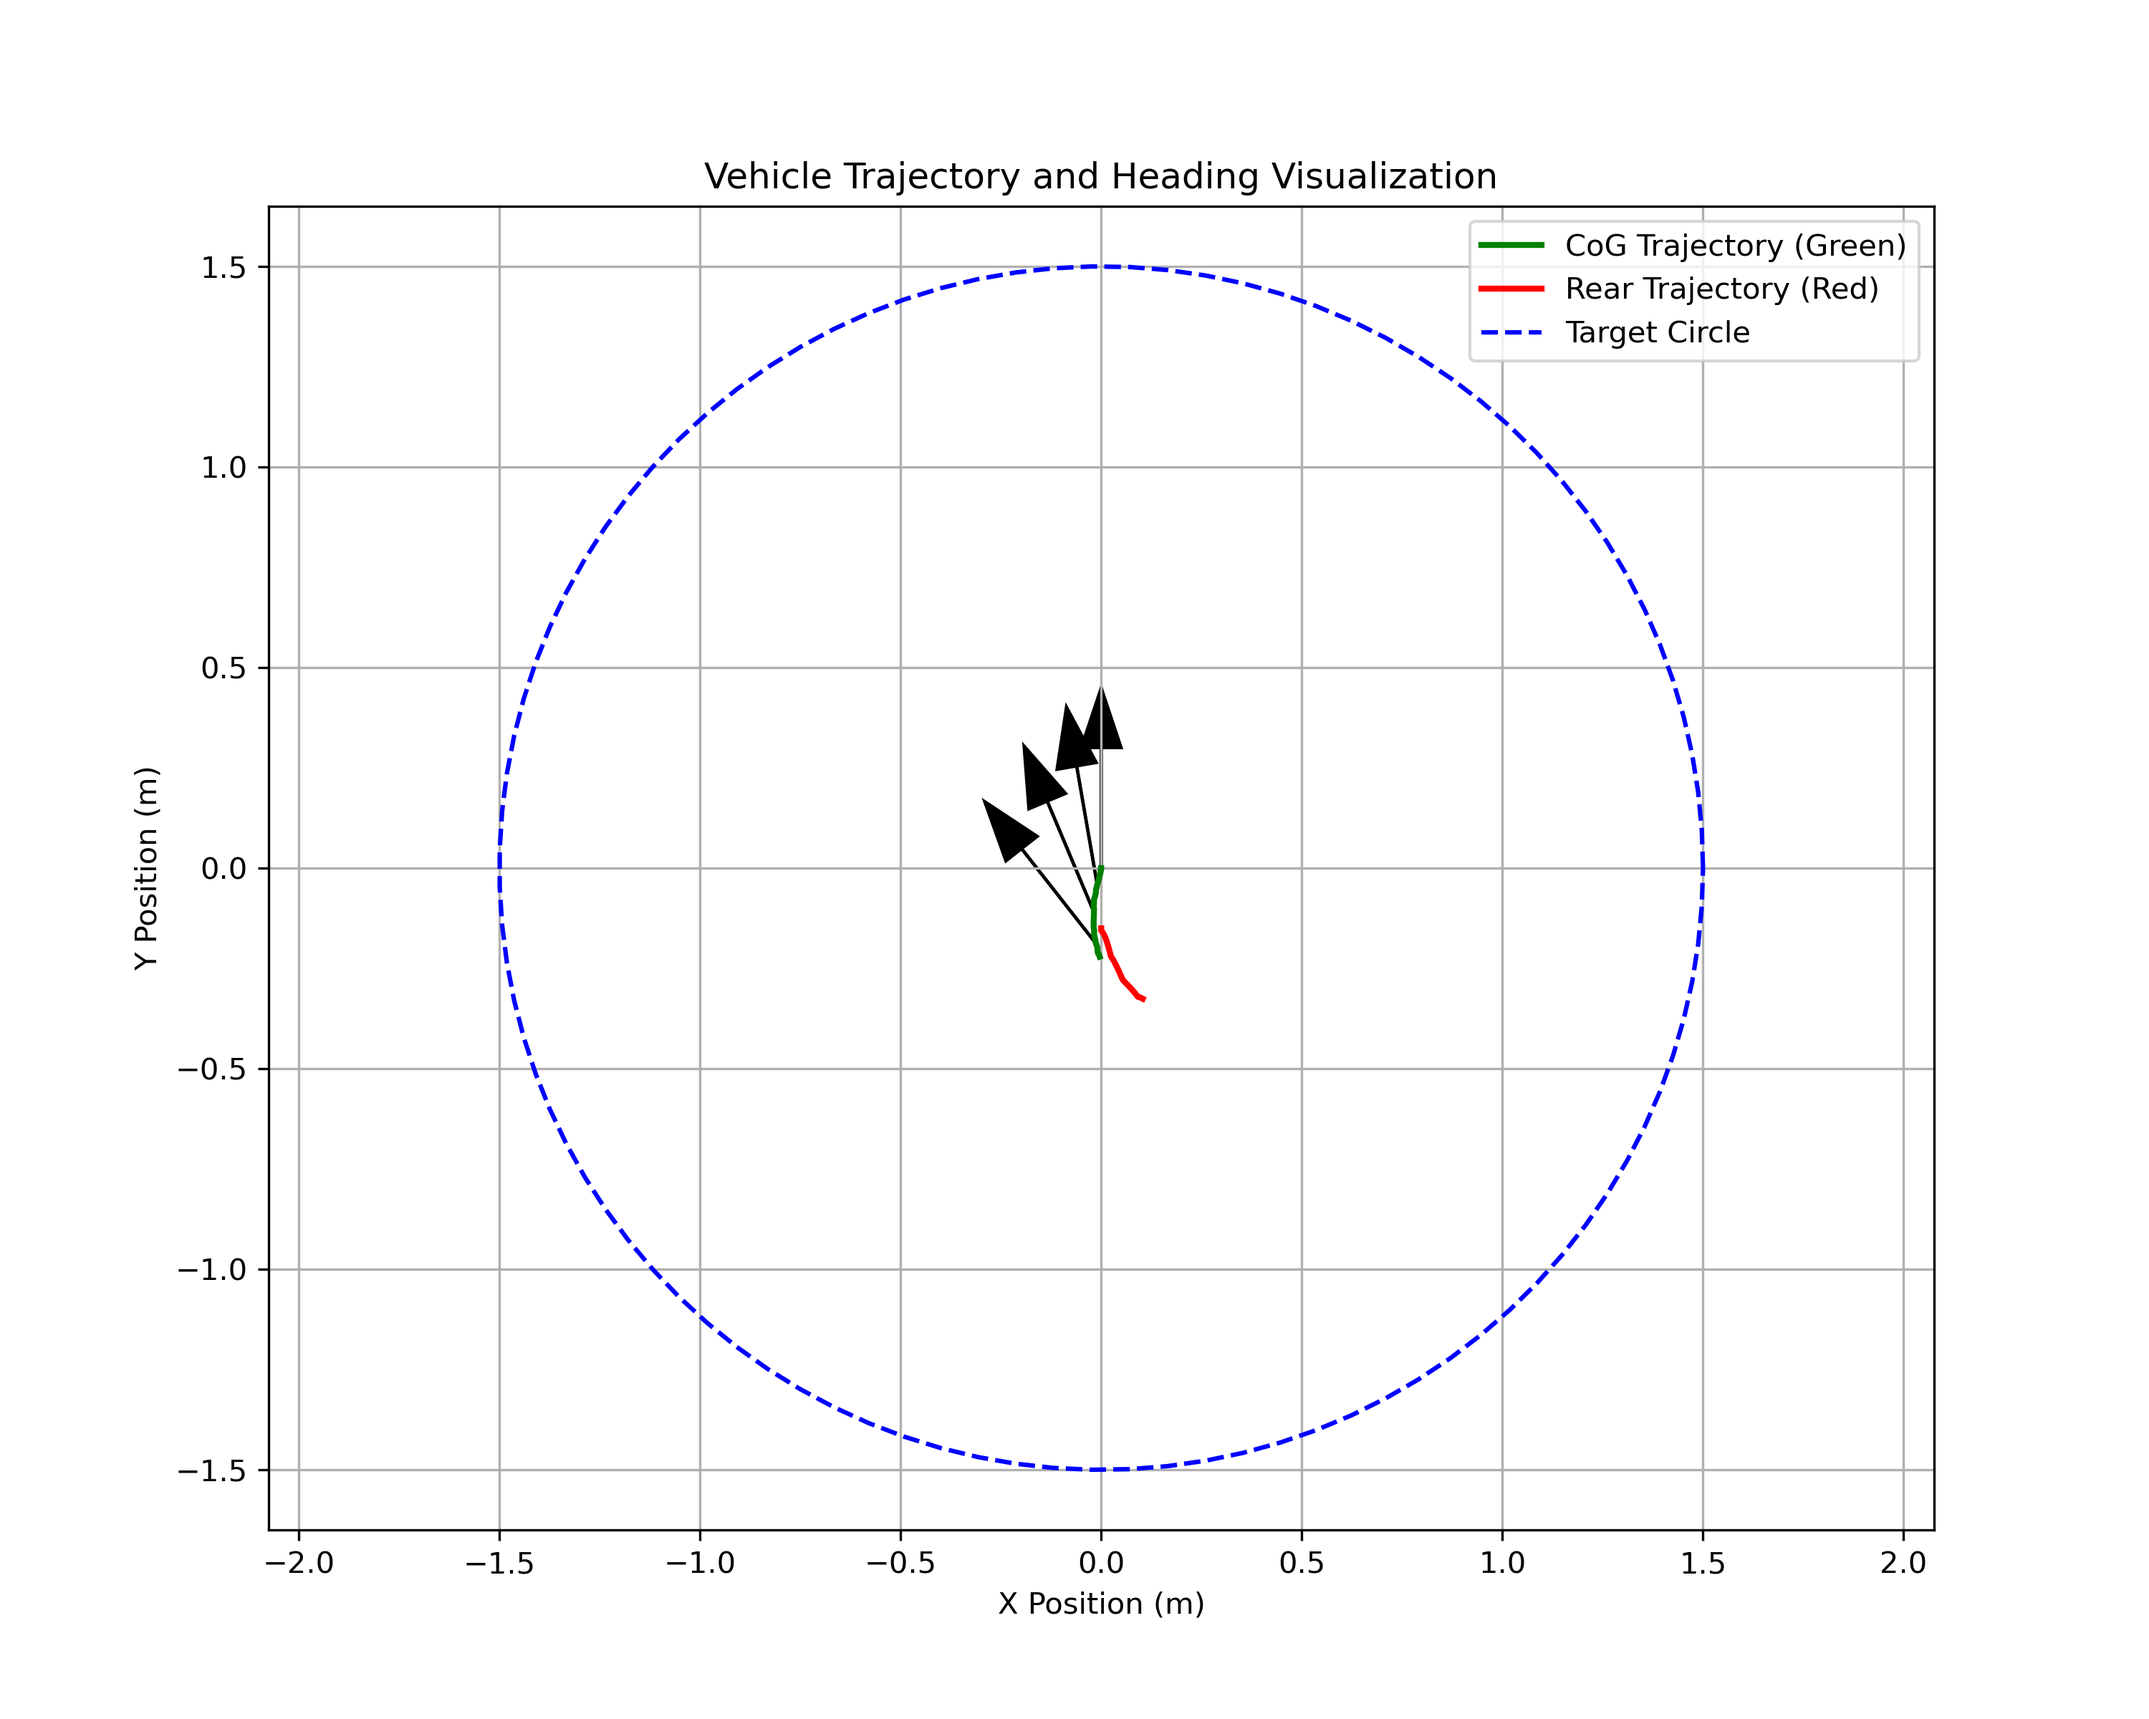
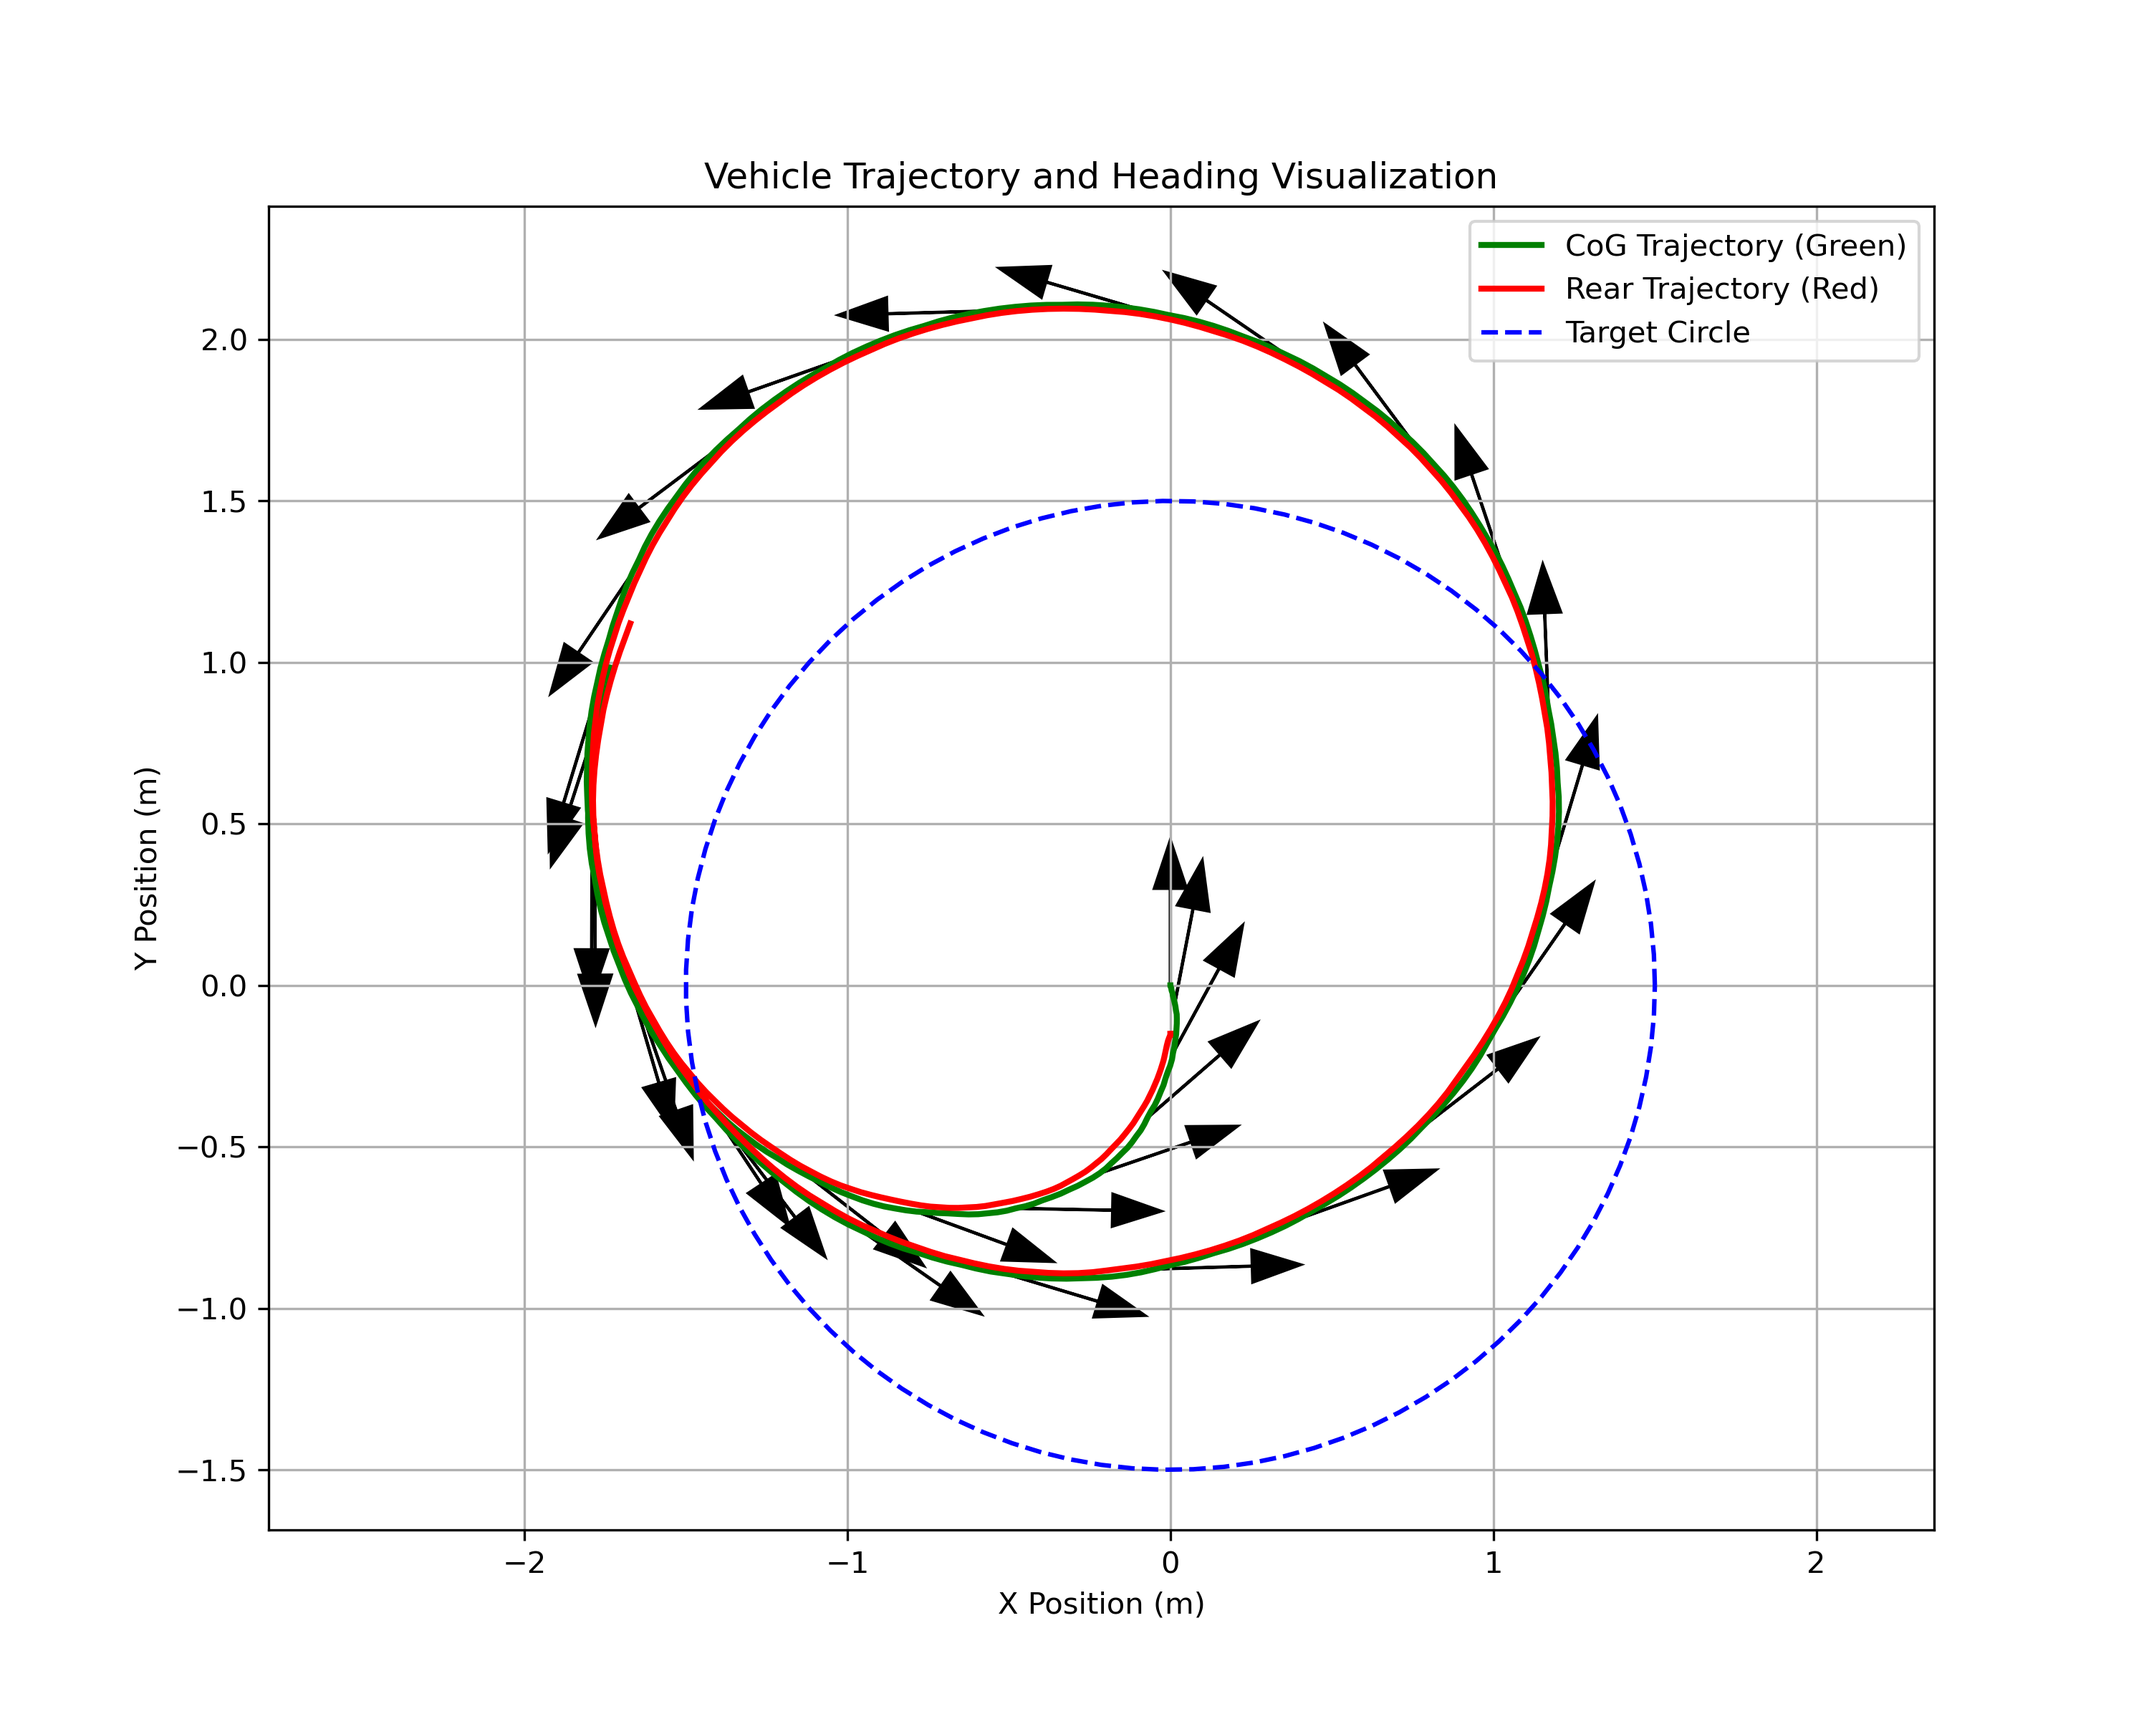
add direction condition for target v

diff --git a/nmpc_controller/scripts/plot.py b/nmpc_controller/scripts/plot.py
@@ -135,8 +135,8 @@ def dynamics_finite(x, u, dt):
     k1 = dynamics(x, u)
     return x + dt * k1
 
-def circle_velocity_target(circle_radius, v_max):
-    vx_goal = v_max
+def circle_velocity_target(circle_radius, v):
+    vx_goal = v
     r_goal = vx_goal / circle_radius  # Yaw rate for circular motion
     return vx_goal, r_goal
 
@@ -145,7 +145,15 @@ def cost_function(u, x0, N, dt):
     # x0: initial state
     # N: prediction horizon
     # u: control inputs over the horizon (throttle, steering)
-    vx_goal, r_goal = circle_velocity_target(circle_radius, v_max)
+
+    vx = x0[3]
+
+    if vx >= 0:
+        v = v_max
+    elif vx < 0:
+        v = -v_max
+    
+    vx_goal, r_goal = circle_velocity_target(circle_radius, v)
     
     # Weighting factors for the velocity and yaw rate errors
     alpha_vx = 1.0
@@ -173,7 +181,7 @@ def cost_function(u, x0, N, dt):
 N = 3  # prediction horizon
 
 # u_initial = np.random.uniform(-2.0, 2.0, 2 * N)  # Randomize within bounds
-# u_initial = [-2.043563,    0.54835626,  0.12012904,  0.19187852, -1.50917811, -0.61073667] # Backward
+# u_initial = [-0.70733845,  0.05867338, -2.1500941,   0.16801063,  0.06384393, -0.58938019] # Backward
 u_initial = [0.84183408,  0.45151292,  0.7560102,   0.35675445, -2.09682026,  0.33119607] # Forward
 
 throttle_bound = (-v_max, v_max)  
@@ -298,7 +306,14 @@ def plot_simulation_results():
 
     # Plot v_x and v_y
     axs[0, 0].plot(vx_data, label="v_x (m/s)")
-    axs[0, 0].axhline(y=v_max, color='r', linestyle='--', label="v_x_goal")
+    
+    # Determine the direction of motion (forward or backward)
+    if vx_data[-1] >= 0:
+        vx_goal = v_max  # Forward velocity goal
+    else:
+        vx_goal = -v_max  # Backward velocity goal
+    axs[0, 0].axhline(y=vx_goal, color='r', linestyle='--', label="v_x_goal")
+    
     axs[0, 0].set_ylabel("v_x (m/s)")
     axs[0, 0].legend()
     axs[0, 0].grid()
@@ -315,7 +330,14 @@ def plot_simulation_results():
     axs[1, 0].grid()
 
     axs[1, 1].plot(r_data, label="Yaw rate (rad/s)")
-    axs[1, 1].axhline(y=v_max/circle_radius, color='r', linestyle='--', label="r_goal")
+    
+    # Determine the yaw rate goal based on the current motion direction
+    if vx_data[-1] >= 0:
+        r_goal = vx_goal / circle_radius  # Forward yaw rate goal
+    else:
+        r_goal = vx_goal / circle_radius  # Backward yaw rate goal (same calculation, opposite direction)
+    axs[1, 1].axhline(y=r_goal, color='r', linestyle='--', label="r_goal")
+    
     axs[1, 1].set_ylabel("Yaw rate (rad/s)")
     axs[1, 1].legend()
     axs[1, 1].grid()
@@ -326,15 +348,9 @@ def plot_simulation_results():
     axs[2, 0].legend()
     axs[2, 0].grid()
 
-    # # Plot steering angle
-    # axs[2, 1].plot(steering_angle_data, label="Steering angle (rad)")
-    # axs[2, 1].set_ylabel("Steering angle (rad)")
-    # axs[2, 1].legend()
-    # axs[2, 1].grid()
-
     # Plot Control Input
-    axs[2, 1].plot(steering_angle_data, label="Steering angle (rad)")
     axs[2, 1].plot(vx_cmd_data, label="v_x command (m/s)")
+    axs[2, 1].plot(steering_angle_data, label="Steering angle (rad)")
     axs[2, 1].set_ylabel("Control Input")
     axs[2, 1].legend()
     axs[2, 1].grid()
@@ -342,6 +358,7 @@ def plot_simulation_results():
     plt.tight_layout()
     plt.subplots_adjust(top=0.9)
     plt.show()
+
 
 # Start the animation
 ani = FuncAnimation(fig, update_plot, frames=500, interval=dt * 1000)

diff --git a/nmpc_controller/scripts/loco_nmpc.py b/nmpc_controller/scripts/loco_nmpc.py
@@ -25,7 +25,7 @@ steer_max = 0.698 # rad
 
 # Initialize plot
 fig, ax = plt.subplots()
-ax.axis([-2, 2, -2, 2])
+ax.axis([-2.5, 2.5, -2.5, 2.5])
 ax.set_aspect('equal')
 line, = ax.plot([], [], 'b-')
 traj_cog, = ax.plot([], [], 'g-')
@@ -135,8 +135,8 @@ def dynamics_finite(x, u, dt):
     k1 = dynamics(x, u)
     return x + dt * k1
 
-def circle_velocity_target(circle_radius, v_max):
-    vx_goal = v_max
+def circle_velocity_target(circle_radius, v):
+    vx_goal = v
     r_goal = vx_goal / circle_radius  # Yaw rate for circular motion
     return vx_goal, r_goal
 
@@ -145,7 +145,14 @@ def cost_function(u, x0, N, dt):
     # x0: initial state
     # N: prediction horizon
     # u: control inputs over the horizon (throttle, steering)
-    vx_goal, r_goal = circle_velocity_target(circle_radius, v_max)
+    vx = x0[3]
+
+    if vx >= 0:
+        v = v_max
+    elif vx < 0:
+        v = -v_max
+    
+    vx_goal, r_goal = circle_velocity_target(circle_radius, v)
     
     # Weighting factors for the velocity and yaw rate errors
     alpha_vx = 1.0
@@ -173,18 +180,18 @@ def cost_function(u, x0, N, dt):
 N = 3  # prediction horizon
 
 # u_initial = np.random.uniform(-2.0, 2.0, 2 * N)  # Randomize within bounds
-# u_initial = [-2.043563,    0.54835626,  0.12012904,  0.19187852, -1.50917811, -0.61073667] # Backward
+u_initial = [-0.70733845,  0.05867338, -2.1500941,   0.16801063,  0.06384393, -0.58938019] # Backward
 # u_initial = [0.84183408,  0.45151292,  0.7560102,   0.35675445, -2.09682026,  0.33119607] # Forward
 
 throttle_bound = (-v_max, v_max)  
 steer_bound = (-steer_max, steer_max)
 
-throttle_initial = np.random.uniform(throttle_bound[0], throttle_bound[1], N)
-steer_initial = np.random.uniform(steer_bound[0], steer_bound[1], N)
+# throttle_initial = np.random.uniform(throttle_bound[0], throttle_bound[1], N)
+# steer_initial = np.random.uniform(steer_bound[0], steer_bound[1], N)
 
-u_initial = np.zeros(2 * N) 
-u_initial[::2] = throttle_initial 
-u_initial[1::2] = steer_initial   
+# u_initial = np.zeros(2 * N) 
+# u_initial[::2] = throttle_initial 
+# u_initial[1::2] = steer_initial   
 
 print(u_initial) 
 
